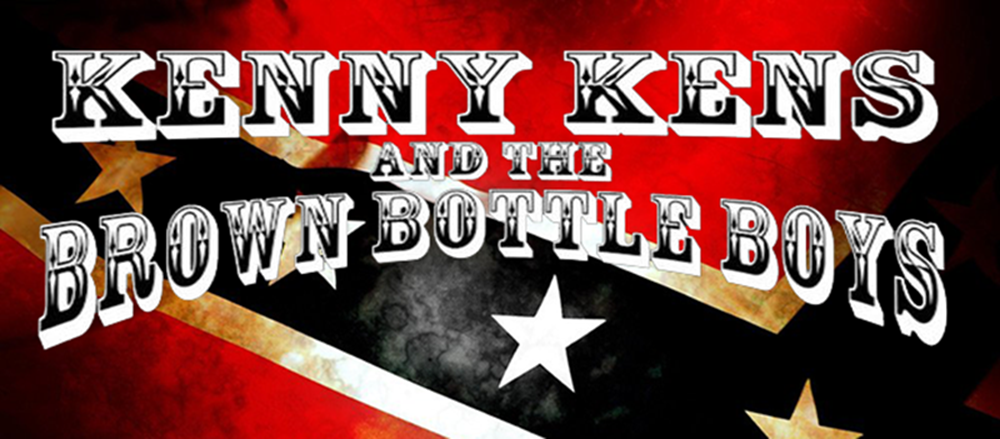
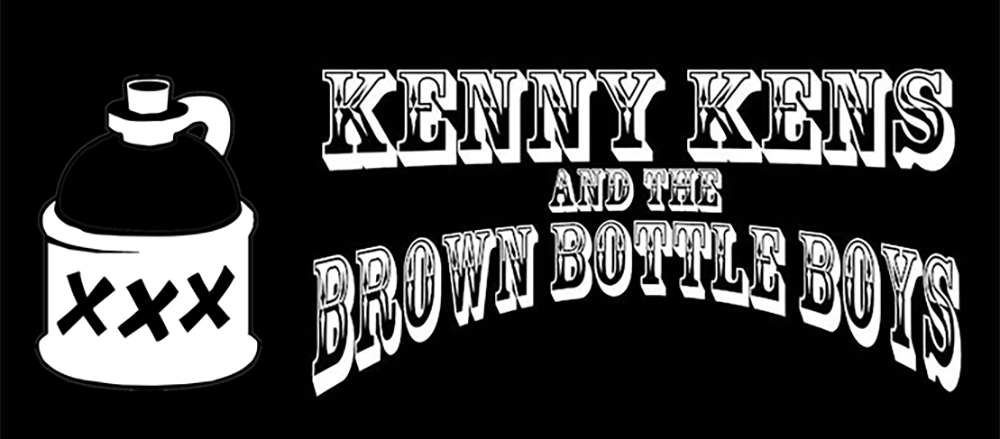
Auth

diff --git a/resources/views/_includes/nav.blade.php b/resources/views/_includes/nav.blade.php
@@ -6,7 +6,7 @@
         <span class="icon-bar"></span>
         <span class="icon-bar"></span>
       </button>
-      <a class="navbar-brand" href="#" ><img src="img/jugLogo.png"></a>
+      <a class="navbar-brand" href="/" ><img src="{{url('img/jugLogo.png')}}"></a>
     </div>
     <div class="collapse navbar-collapse" id="myNavbar">
       <ul class="nav navbar-nav navbar-left">
@@ -14,19 +14,65 @@
         <li><a href="#band">BAND</a></li>
         <li><a href="#tour">TOUR</a></li>
         <li><a href="#contact">CONTACT</a></li>
-        <li class="dropdown">
-          <a class="dropdown-toggle" data-toggle="dropdown" href="#">MORE
-          <span class="caret"></span></a>
+
+        <li class="dropdown navbar-right">
+          <a class="dropdown-toggle" data-toggle="dropdown" href="#">MORE<span class="caret"></span></a>
           <ul class="dropdown-menu">
             <li><a href="#">Merchandise</a></li>
             <li><a href="#">Extras</a></li>
             <li><a href="#">Media</a></li>
+            <li><a href="{{ url('/logout') }}" onclick="event.preventDefault(); document.getElementById('logout-form').submit();">Logout</a>
+                <form id="logout-form" action="{{ url('/logout') }}" method="POST" style="display: none;">
+                  {{ csrf_field() }}
+                </form>
+            </li>
           </ul>
         </li>
 
       </ul>
-    </div>
+ 
+
+
+
+
+                <!-- Right Side Of Navbar -->
+                <ul class="nav navbar-nav navbar-right">
+                    <!-- Authentication Links -->
+                    @if (Auth::guest())
+
+                        <li><a href="{{ url('/login') }}">Login</a></li>
+{{--                         <li><a href="{{ url('/register') }}">Register</a></li> --}}
+                    @else
+                        <li class="dropdown">
+
+                            <a href="#" class="dropdown-toggle" data-toggle="dropdown" role="button" aria-expanded="false">
+                                {{ Auth::user()->name }} <span class="caret"></span>
+                            </a>
+
+                            <ul class="dropdown-menu" role="menu">
+                            <li><a href="/welcome/1/edit">Edit Bio</a></li>
+                            <li><a href="#">Extras</a></li>
+                            <li><a href="#">Media</a></li>
+                                <li>
+                                    <a href="{{ url('/logout') }}"
+                                        onclick="event.preventDefault();
+                                                 document.getElementById('logout-form').submit();">
+                                        Logout
+                                    </a>
+
+                                    <form id="logout-form" action="{{ url('/logout') }}" method="POST" style="display: none;">
+                                        {{ csrf_field() }}
+                                    </form>
+                                </li>
+                            </ul>
+                        </li>
+                    @endif
+                </ul>
+     
+
+               </div>
   </div>
+
 </nav>
 
 

diff --git a/resources/views/welcome/index.blade.php b/resources/views/welcome/index.blade.php
@@ -5,12 +5,9 @@
 <div class="container text-center">
 
 {{--   <img src="img/logo.png"> --}}
-  <h2><em><b>100% PURE DETROIT HONKEY TONK!</b></em></h2>
+  <h2><em><b>{{$welcome->title}}</b></em></h2>
   
-  <p>Bacon ipsum dolor amet picanha beef ribs frankfurter, boudin ribeye strip steak bresaola pork chop bacon fatback. Doner pancetta pastrami fatback t-bone. Rump shankle bacon, jowl turkey pork belly sirloin strip steak ham salami. Biltong short loin meatball sausage cow.<br /><br />
-  Bacon ipsum dolor amet ham hock bacon tenderloin filet mignon doner, pork belly sirloin pork chop pig short ribs hamburger alcatra ball tip jowl strip steak. Porchetta ribeye corned beef, ham short ribs meatball ham hock doner pork loin prosciutto flank bacon. Pork meatloaf andouille short loin, fatback capicola bacon ham meatball beef shankle. Tongue pig capicola flank, meatloaf shank hamburger corned beef shoulder boudin bresaola strip steak pastrami. Filet mignon bacon pork chop ham hock short ribs. Ground round ribeye salami rump venison beef porchetta pork. Ribeye alcatra kielbasa, porchetta swine hamburger short ribs turkey bresaola picanha.<br /><br />
-
-Leberkas alcatra tongue, corned beef turkey ham hock chicken meatball short ribs boudin picanha brisket meatloaf pig fatback. Filet mignon ribeye bacon salami andouille leberkas, landjaeger turkey. Corned beef turducken shoulder tenderloin short loin, shank shankle pork ribeye jowl pork belly swine tail beef. Ham hock rump bresaola pork belly, picanha flank swine doner cow meatloaf. Shank brisket capicola tenderloin frankfurter, cow tri-tip jowl. Chicken salami bacon spare ribs jerky turducken. Strip steak shank landjaeger, picanha ground round sirloin bresaola venison leberkas alcatra biltong short loin pork loin prosciutto.</p>
+  <p>{!!$welcome->body!!}</p>
   <br>
   <div class="row">
     <div class="col-sm-4">

diff --git a/app/Http/Controllers/BookController.php b/app/Http/Controllers/BookController.php
@@ -1,12 +1,12 @@
 <?php
 
 namespace App\Http\Controllers;
+
 use Illuminate\Http\Request;
+
 use App\Http\Requests;
-use App\Welcome;
 
-
-class WelcomeController extends Controller
+class BookController extends Controller
 {
     /**
      * Display a listing of the resource.
@@ -15,9 +15,7 @@ class WelcomeController extends Controller
      */
     public function index()
     {
-        $welcome = Welcome::latest()->first();
-
-        return view('welcome.index', compact('welcome'));
+        //
     }
 
     /**
@@ -27,8 +25,7 @@ class WelcomeController extends Controller
      */
     public function create()
     {
-
-        return view('welcome.create');
+        //
     }
 
     /**
@@ -39,10 +36,7 @@ class WelcomeController extends Controller
      */
     public function store(Request $request)
     {
-        $welcome = new Welcome;
-        $welcome->fill($request->all());
-        $welcome->save();
-        return redirect('/');
+        //
     }
 
     /**
@@ -62,9 +56,9 @@ class WelcomeController extends Controller
      * @param  int  $id
      * @return \Illuminate\Http\Response
      */
-    public function edit(Welcome $welcome)
+    public function edit($id)
     {
-        return view('welcome.edit', compact('welcome'));
+        //
     }
 
     /**
@@ -74,11 +68,9 @@ class WelcomeController extends Controller
      * @param  int  $id
      * @return \Illuminate\Http\Response
      */
-    public function update(Request $request, Welcome $welcome)
+    public function update(Request $request, $id)
     {
-        $welcome->update($request->all());
-        
-        return redirect('/');
+        //
     }
 
     /**

diff --git a/resources/views/layouts/app.blade.php b/resources/views/layouts/app.blade.php
@@ -8,10 +8,11 @@
     <!-- CSRF Token -->
     <meta name="csrf-token" content="{{ csrf_token() }}">
 
-    <title>Laravel</title>
+    <title>Kenny Kens & The Brown Bottle Boys</title>
 
     <!-- Styles -->
     <link href="/css/app.css" rel="stylesheet">
+      <link rel="stylesheet" href="{{ asset('css/custom.css') }}?1">
 
     <!-- Scripts -->
     <script>
@@ -21,8 +22,8 @@
     </script>
 </head>
 <body>
-    <nav class="navbar navbar-default navbar-static-top">
-        <div class="container">
+    <nav class="navbar navbar-inverse navbar-fixed-top">
+    <div class="container-fluid">
             <div class="navbar-header">
 
                 <!-- Collapsed Hamburger -->
@@ -34,9 +35,7 @@
                 </button>
 
                 <!-- Branding Image -->
-                <a class="navbar-brand" href="{{ url('/') }}">
-                    Laravel
-                </a>
+<a class="navbar-brand" href="/" ><img src="{{url('img/jugLogo.png')}}"></a>
             </div>
 
             <div class="collapse navbar-collapse" id="app-navbar-collapse">
@@ -50,7 +49,7 @@
                     <!-- Authentication Links -->
                     @if (Auth::guest())
                         <li><a href="{{ url('/login') }}">Login</a></li>
-                        <li><a href="{{ url('/register') }}">Register</a></li>
+                  {{--       <li><a href="{{ url('/register') }}">Register</a></li> --}}
                     @else
                         <li class="dropdown">
                             <a href="#" class="dropdown-toggle" data-toggle="dropdown" role="button" aria-expanded="false">

diff --git a/resources/views/_includes/banner.blade.php b/resources/views/_includes/banner.blade.php
@@ -1,15 +1,34 @@
 <div id="myCarousel" class="carousel slide" data-ride="carousel">
-
-
     <!-- Wrapper for slides -->
     <div class="carousel-inner" role="listbox">
+   
       <div class="item active">
-        <img src="img/banner1.png" alt="Damn Kenny Kens">
+        <img src="img/banner1.png" alt="Kenny Kens & The Brown Bottle Boys">
       </div>
     
-    <div class="item">
-      <img src="img/banner2.png" alt="Chicago">
-   
+      <div class="item">
+        <img src="img/banner2.png" alt="Kenny Kens & The Brown Bottle Boys">
       </div> 
+
+      <div class="item">
+        <img src="img/banner3.png" alt="Kenny Kens & The Brown Bottle Boys">
+      </div> 
+   
+      <div class="item">
+        <img src="img/banner4.png" alt="Kenny Kens & The Brown Bottle Boys">
+      </div> 
+
+      <div class="item">
+        <img src="img/banner5.png" alt="Kenny Kens & The Brown Bottle Boys">
+      </div> 
+
+      <div class="item">
+        <img src="img/banner6.png" alt="Kenny Kens & The Brown Bottle Boys">
+      </div> 
+
+      <div class="item">
+        <img src="img/banner7.png" alt="Kenny Kens & The Brown Bottle Boys">
+      </div> 
+         
     </div>
 </div>

diff --git a/resources/views/welcome/edit.blade.php b/resources/views/welcome/edit.blade.php
@@ -1,0 +1,36 @@
+@extends('layouts.main')
+@section('content')
+<div class="container dashboard col-md-12" style="background:url({{ asset('img/CSA_op.png') }}); background-size: cover">
+<div class="text-center">
+<h1>This is where you edit our welcome Bio, Homo!</h1>
+<img src="{{ asset('img/Duncan.png') }}">
+<h1>You Love Me!!</h1>
+</div>
+<div class="col-md-8 col-md-offset-2">
+{{Form::model($welcome, ['method' => 'PATCH', 'action' => ['WelcomeController@update', $welcome->id]])}}
+{{Form::open(['method' => 'POST', 'action' => 'WelcomeController@store'])}}
+	<div class="form-group">
+		{{Form::label('title', 'Title:')}}
+		{{Form::text('title', null, ['class' => 'form-control', 'placeholder' => 'Enter Title'])}}
+		{{Form::label('body', 'Body:')}}
+			{!!Form::textarea('body', null, ['class' => 'form-control', 'placeholder' => 'Enter Body'])!!}
+	</div>
+	<div class='pull-right'>
+		<div class="form-group">
+		{{Form::submit('Edit Bio', ['class' => 'btn-primary'])}}
+		{{Form::close()}}		
+		</div>
+	</div>
+{{Form::close()}}
+
+</div>
+
+
+
+
+
+@stop
+
+@section('scripts')
+@include('_includes.froala.froala-options')
+@stop

diff --git a/resources/views/auth/login.blade.php b/resources/views/auth/login.blade.php
@@ -3,10 +3,10 @@
 @section('content')
 <div class="container">
     <div class="row">
-        <div class="col-md-8 col-md-offset-2">
+        <div class="col-md-8 col-md-offset-2" style="margin-top: 50px">
             <div class="panel panel-default">
                 <div class="panel-heading">Login</div>
-                <div class="panel-body">
+                <div class="panel-body" >
                     <form class="form-horizontal" role="form" method="POST" action="{{ url('/login') }}">
                         {{ csrf_field() }}
 
@@ -53,10 +53,10 @@
                                 <button type="submit" class="btn btn-primary">
                                     Login
                                 </button>
-
+{{-- 
                                 <a class="btn btn-link" href="{{ url('/password/reset') }}">
                                     Forgot Your Password?
-                                </a>
+                                </a> --}}
                             </div>
                         </div>
                     </form>

diff --git a/resources/views/layouts/main.blade.php b/resources/views/layouts/main.blade.php
@@ -6,6 +6,7 @@
   <meta charset="utf-8">
   <meta name="viewport" content="width=device-width, initial-scale=1">
 <link rel="stylesheet" href="http://maxcdn.bootstrapcdn.com/bootstrap/3.3.7/css/bootstrap.min.css">
+ <link rel="icon" href="{{url('/img/jugLogo.png')}}">
   <script src="https://ajax.googleapis.com/ajax/libs/jquery/1.12.4/jquery.min.js"></script>
   <script src="http://maxcdn.bootstrapcdn.com/bootstrap/3.3.7/js/bootstrap.min.js"></script>
   <script src="https://use.fontawesome.com/80936d74be.js"></script>

diff --git a/resources/views/welcome/create.blade.php b/resources/views/welcome/create.blade.php
@@ -1,9 +1,9 @@
 @extends('layouts.main')
 @section('content')
-<div class="container dashboard col-md-12" style="background:url('img/CSA_op.png'); background-size: cover" >
+<div class="container dashboard col-md-12" style="background:url({{ asset('img/CSA_op.png') }}); background-size: cover" >
 <div class="text-center">
 <h1>This is where you create our welcome message!</h1>
-<img src="img/Duncan.png">
+<img src="{{ asset('img/Duncan.png') }}">
 <h1>You Love Me!!</h1>
 </div>
 <div class="col-md-8 col-md-offset-2">

diff --git a/database/migrations/2016_10_11_205112_create_books_table.php b/database/migrations/2016_10_11_205112_create_books_table.php
@@ -1,0 +1,28 @@
+<?php
+
+use Illuminate\Support\Facades\Schema;
+use Illuminate\Database\Schema\Blueprint;
+use Illuminate\Database\Migrations\Migration;
+
+class CreateBooksTable extends Migration
+{
+    /**
+     * Run the migrations.
+     *
+     * @return void
+     */
+    public function up()
+    {
+        //
+    }
+
+    /**
+     * Reverse the migrations.
+     *
+     * @return void
+     */
+    public function down()
+    {
+        //
+    }
+}

diff --git a/routes/web.php b/routes/web.php
@@ -10,7 +10,10 @@
 | to using a Closure or controller method. Build something great!
 |
 */
-Route::resource('/','WelcomeController');
+
+Route::get('/','WelcomeController@index');
+
+Route::resource('/welcome','WelcomeController');
 
 // Route::get('/', function () {
 //     return view('welcome');

diff --git a/app/Http/Controllers/Auth/LoginController.php b/app/Http/Controllers/Auth/LoginController.php
@@ -25,7 +25,7 @@ class LoginController extends Controller
      *
      * @var string
      */
-    protected $redirectTo = '/home';
+    protected $redirectTo = '/';
 
     /**
      * Create a new controller instance.
